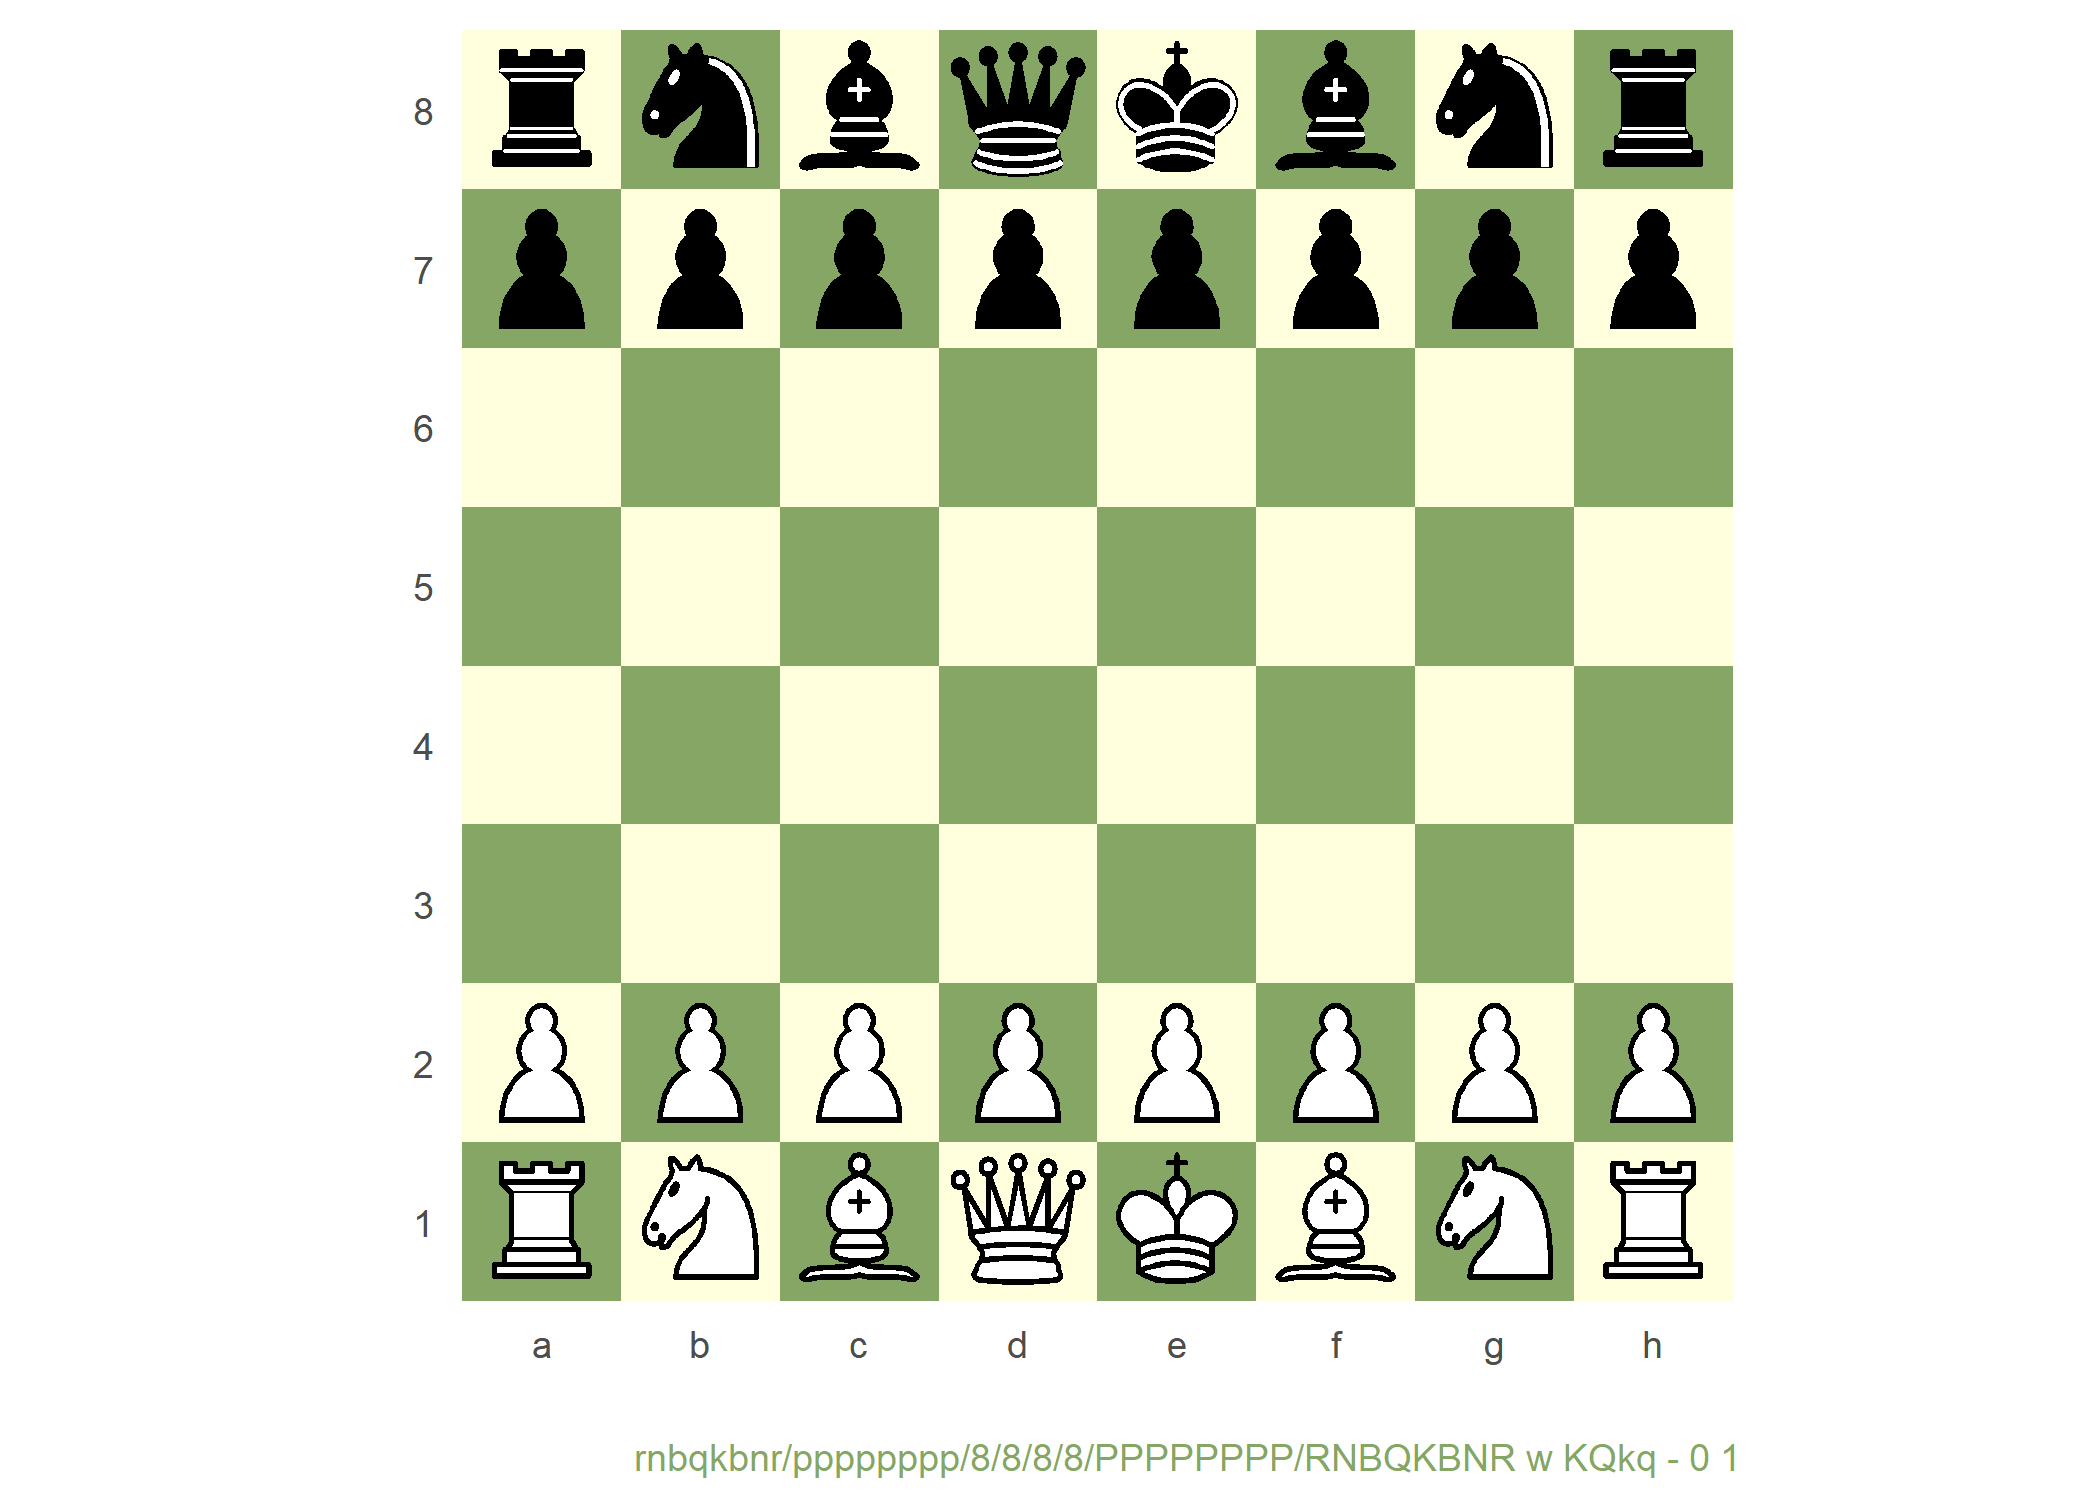
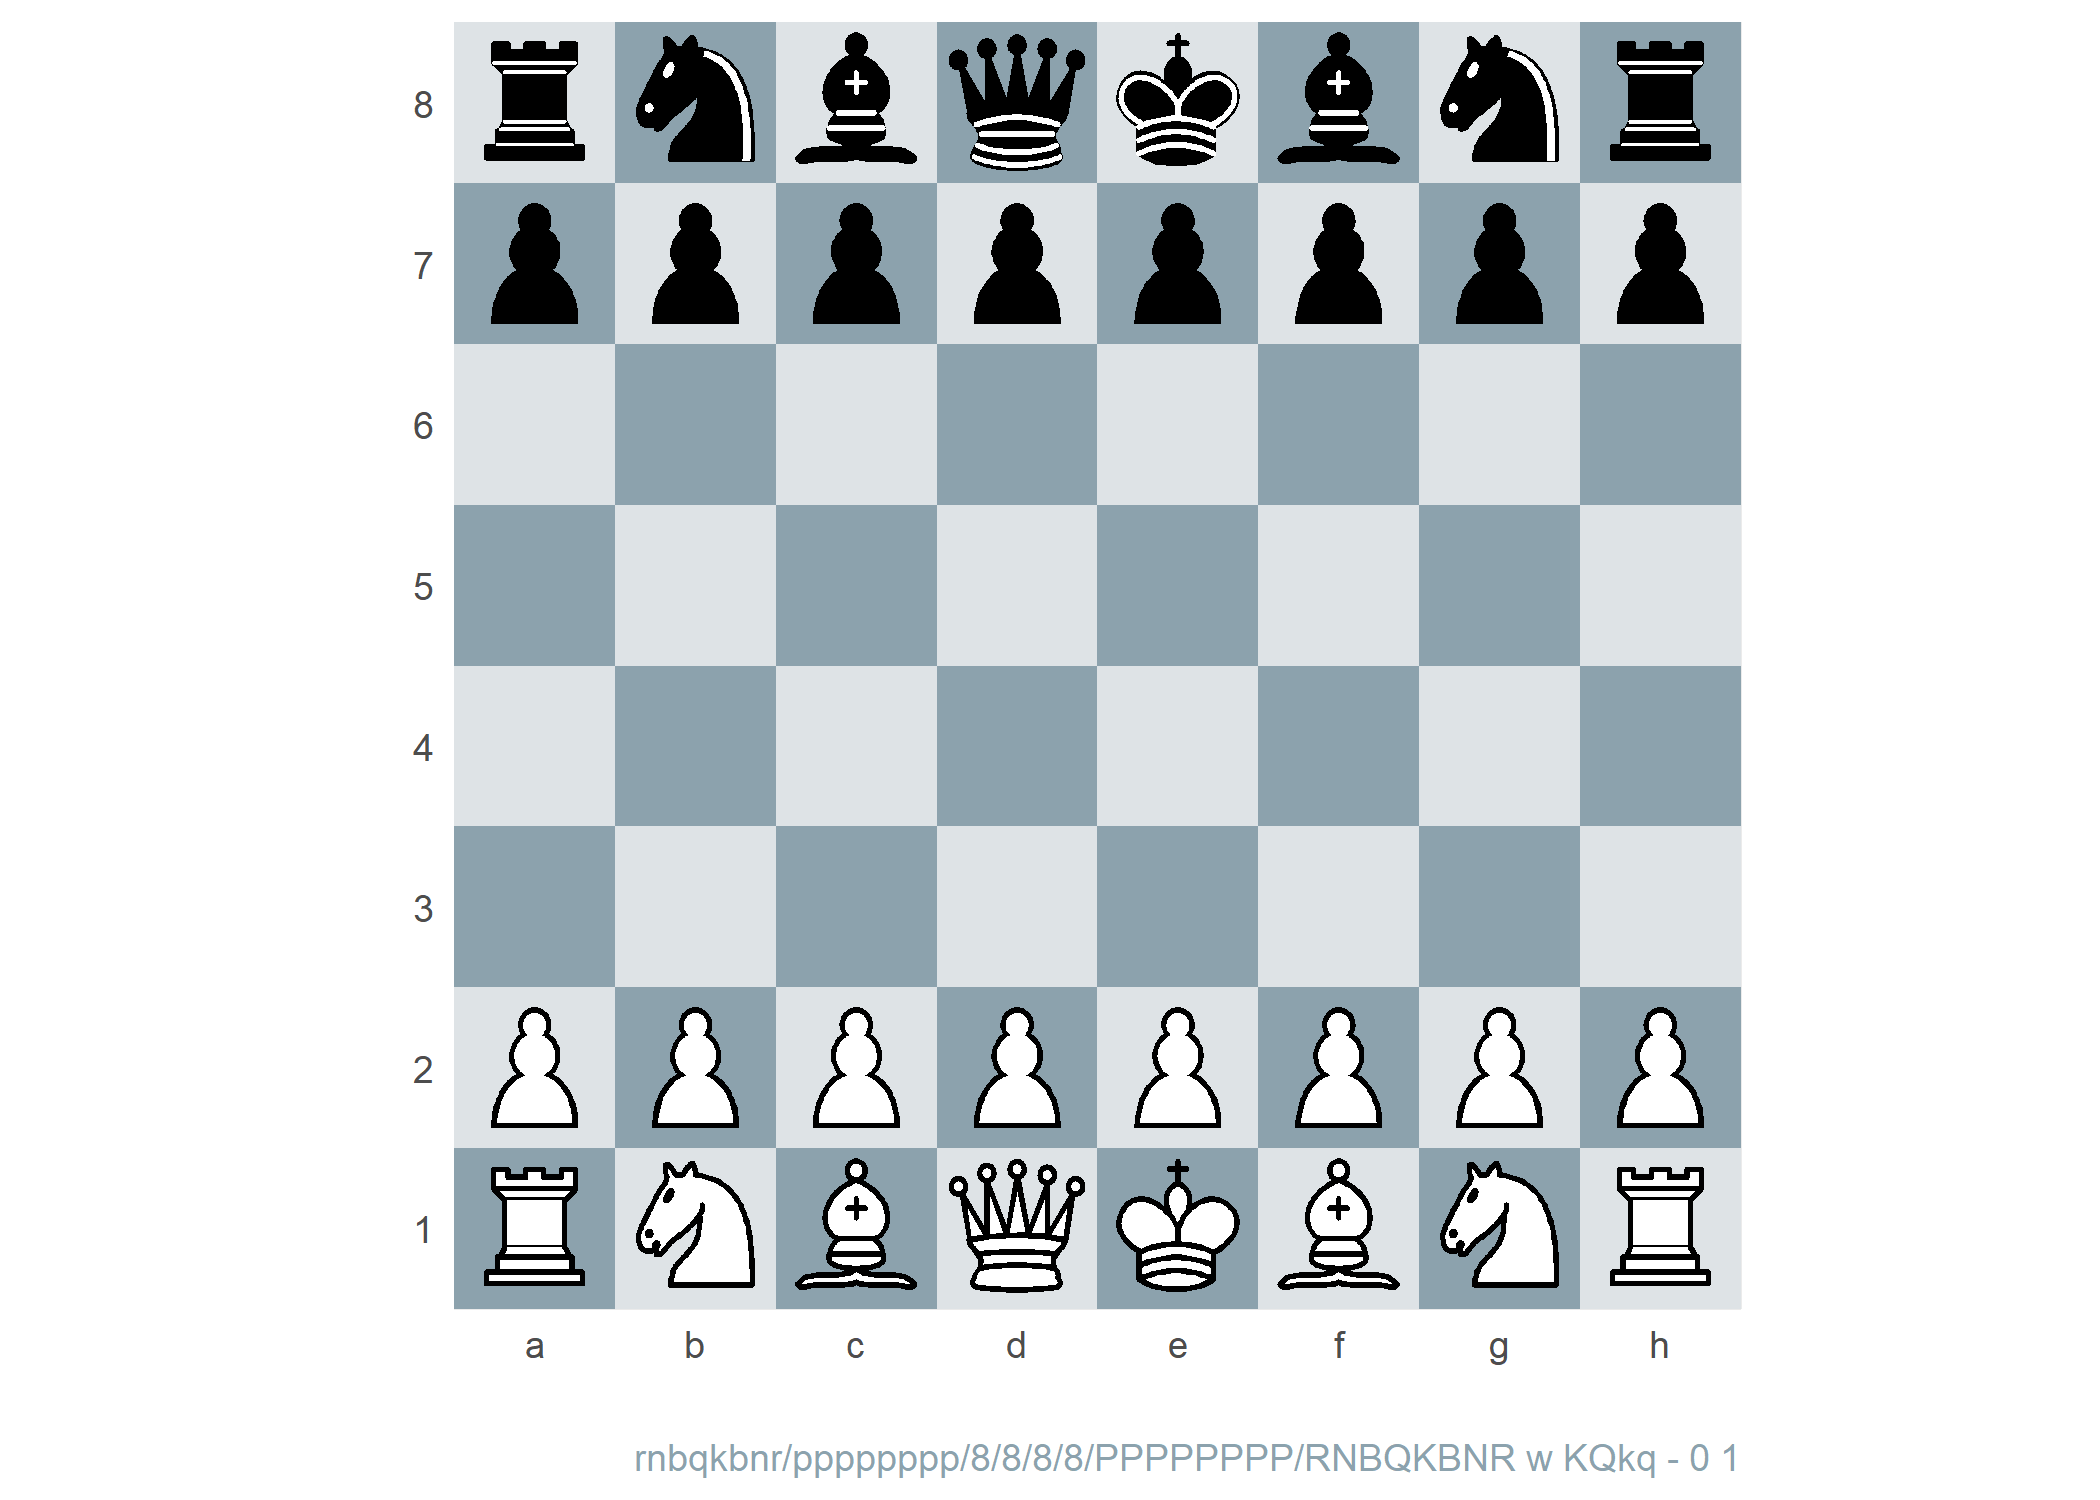
Overhaul of plotting (to add options to remove coordinates and FEN caption) and also FEN parsing with a notation_lookup vector

diff --git a/README.md b/README.md
@@ -3,14 +3,15 @@
 
 # ggambit <img src="data-raw/hex-logo/ggambit-hex-logo.png" align="right" height="139"/>
 
-## A work in progress
+## A work in progress - please log any bugs found
 
 The aim of `ggambit` is to visualise Forsyth–Edwards Notation (FEN)
 chess positions in R using `ggplot2`. Simple annotations (such as arrows
 and circles) can also be added to the image by specifying standard chess
-square notation (e4, c5, etc…). As the plotting engine is `ggplot2`, any
-additional `ggplot2` layers may be added to the image, giving the user
-full creative control.
+square notation (e4, c5, etc…).
+
+As the plotting engine is `ggplot2`, any additional `ggplot2` layers may
+be added to the image, giving the user full creative control.
 
 ### Attribution
 
@@ -33,47 +34,40 @@ remotes::install_github('cj-holmes/ggambit')
 library(ggambit)
 ```
 
-Define the starting position FEN
-
-``` r
-sp <- "rnbqkbnr/pppppppp/8/8/8/8/PPPPPPPP/RNBQKBNR w KQkq - 0 1"
-```
-
 Visualise the FEN starting position using the default settings (from
 white’s perspective)
 
 ``` r
-plot_fen(sp)
+plot_fen()
 ```
 
-<img src="man/figures/README-unnamed-chunk-5-1.png" width="70%" />
+<img src="man/figures/README-unnamed-chunk-4-1.png" width="70%" />
 
 Use `add_arrow()` and `highlight_squares()` to include simple
 annotations specified by chess board squares
 
 ``` r
-plot_fen(sp) + 
-  add_arrow("e2", "e4")+
-  highlight_squares(c("d5", "f5"))
+plot_fen() + add_arrow("e2", "e4") + highlight_squares(c("d5", "f5"))
 ```
 
-<img src="man/figures/README-unnamed-chunk-6-1.png" width="70%" />
-
-Change perspective with the `perspective` argument
-
-``` r
-plot_fen(sp, perspective = "b") + 
-  add_arrow("e2", "e4")+
-  highlight_squares(c("d5", "f5"))
-```
-
-<img src="man/figures/README-unnamed-chunk-7-1.png" width="70%" />
+<img src="man/figures/README-unnamed-chunk-5-1.png" width="70%" />
 
 A more interesting example
 
 ``` r
-plot_fen("2k4r/pp3pp1/2p1bn1p/4N3/1b2PQ2/4KB2/Pq1r1PPP/R6R b - - 1 18")+
-  add_arrow("b4", "c5")
+my_fen <- "2k4r/pp3pp1/2p1bn1p/4N3/1b2PQ2/4KB2/Pq1r1PPP/R6R b - - 1 18"
+```
+
+``` r
+plot_fen(my_fen) + add_arrow("b4", "c5") + highlight_squares("e3")
+```
+
+<img src="man/figures/README-unnamed-chunk-7-1.png" width="70%" />
+
+Change perspective with the `perspective` argument
+
+``` r
+plot_fen(my_fen, perspective = "b") + add_arrow("b4", "c5") + highlight_squares("e3")
 ```
 
 <img src="man/figures/README-unnamed-chunk-8-1.png" width="70%" />
@@ -92,7 +86,16 @@ Square fill colours can be specified with the `cols` argument to
 `board()`
 
 ``` r
-plot_fen(sp, cols="green")
+plot_fen(cols = "blue")
 ```
 
 <img src="man/figures/README-unnamed-chunk-10-1.png" width="70%" />
+
+Remove/add FEN notation caption and board coordinates with the
+`show_coords` and `show_fen` arguments to `plot_fen()`
+
+``` r
+plot_fen(cols = "grey", show_coords = FALSE, show_fen = FALSE)
+```
+
+<img src="man/figures/README-unnamed-chunk-11-1.png" width="70%" />
